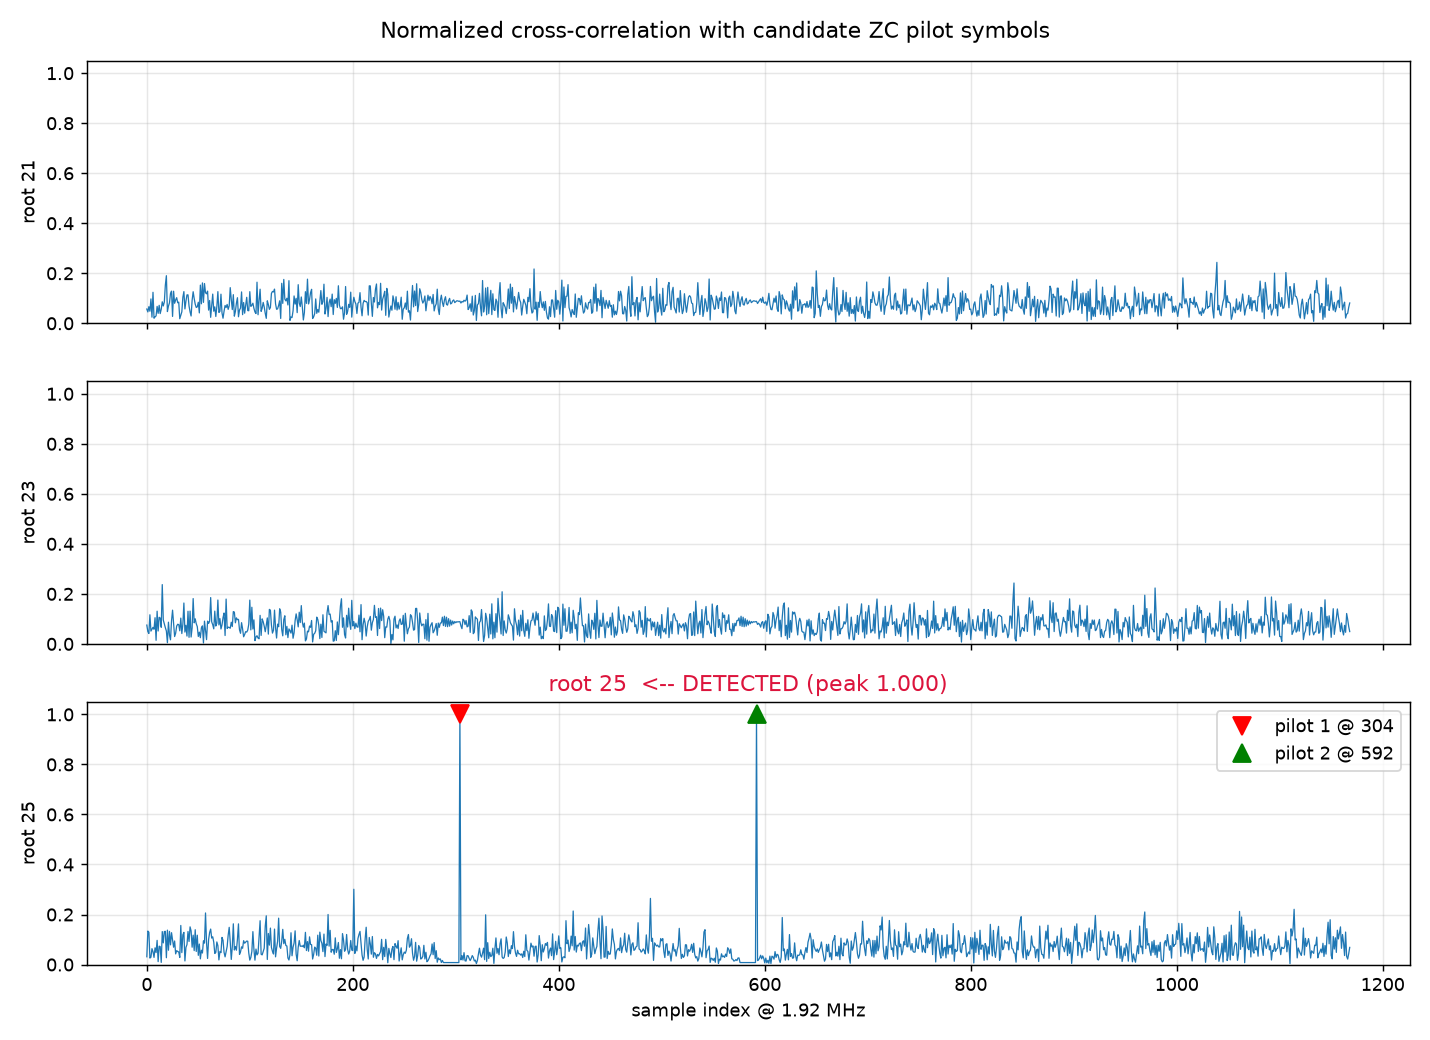
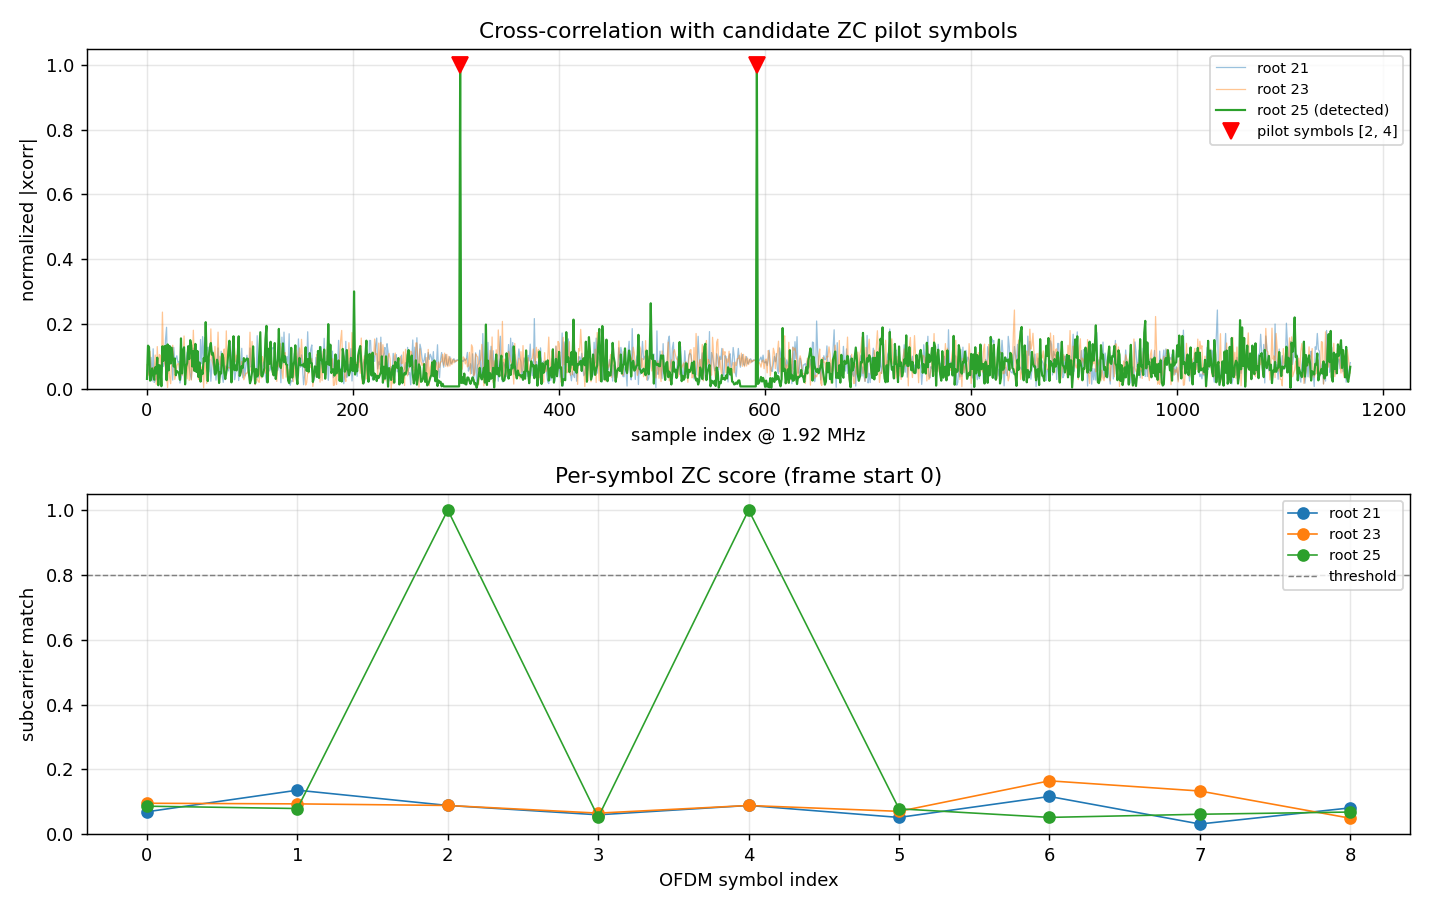
rs proceed

diff --git a/zc_rs.py b/zc_rs.py
@@ -22,6 +22,8 @@ def zc_sequence(root, n=ZC_LEN):
     m = np.arange(n)
     return np.exp(-1j * np.pi * root * m * (m + 1) / n)
 
+def extract_non_dc(X_shifted: np.ndarray) -> np.ndarray:
+    return np.concatenate([X_shifted[:DC_BIN], X_shifted[DC_BIN + 1 :]])
 
 def pilot_time_symbol(root):
     """
@@ -43,109 +45,122 @@ def pilot_time_symbol(root):
 def normalized_xcorr(x, ref):
     """|cross-correlation| normalized by local signal energy -> [0, 1]."""
     L = len(ref)
+    #   Calculate cross-correlation
     num = np.abs(signal.correlate(x, ref, mode="valid"))
+    #   Calculate energy 
     energy = signal.correlate(np.abs(x) ** 2, np.ones(L), mode="valid").real
+    # Calculate normalization to make correlation maximum equal to 1
     den = np.sqrt(np.maximum(energy, 1e-12) * np.sum(np.abs(ref) ** 2))
     return num / den
 
-def search_zc(x_bb):
-    results = {}
-    for root in PILOT_ROOTS:
-        best = None
-        
-        ref = pilot_time_symbol(root)
-        c = normalized_xcorr(x_bb, ref)
-        k = int(np.argmax(c))
-        if best is None or c[k] > best["peak"]:
-            best = {"corr": c, "idx": k, "peak": float(c[k])}
-            
-        results[root] = best
-    return results
+def search_zc(rx: np.ndarray):
+    """Correlate against the OFDM pilot replica of every candidate root.
 
-def estimate_signal_onset(x, win=CP_LEN):
-    """First sample where moving-average power rises well above the noise
-    floor (noise floor taken from the quietest 10% of windows)."""
-    p = np.convolve(np.abs(x) ** 2, np.ones(win) / win, mode="valid")
-    floor = np.percentile(p, 10)
-    thr = max(10 * floor, 0.05 * p.max())
-    idx = np.flatnonzero(p > thr)
-    return int(idx[0]) if idx.size else 0
+    Returns the per-root correlation magnitudes plus the root and sample index
+    of the strongest peak.
+    """
+    corrs = {root: normalized_xcorr(rx, pilot_time_symbol(root))
+             for root in PILOT_ROOTS}
+    best_root = max(corrs, key=lambda r: corrs[r].max())
+    best_start = int(np.argmax(corrs[best_root]))
+    return corrs, best_root, best_start
 
-def interpret(results, x_bb):
-    best_root = max(results, key=lambda r: results[r]["peak"])
-    r = results[best_root]
-    c = r["corr"]
+def per_symbol_zc_scores(rx: np.ndarray, timing: int = 0) -> np.ndarray:
+    """
+    For each of 9 OFDM symbols, correlate the 127 used subcarriers with each root.
+    Returns array shape (N_SYM, n_roots).
+    """
+    scores = np.zeros((N_SYM, len(PILOT_ROOTS)))
+    for s in range(N_SYM):
+        start = timing + s * SYM_LEN + CP_LEN
+        useful = rx[start : start + N_FFT]
+        if useful.size < N_FFT:
+            continue
+        X = np.fft.fftshift(np.fft.fft(useful, n=N_FFT))
+        sc = extract_non_dc(X)
+        sc_n = np.linalg.norm(sc)
+        for i, root in enumerate(PILOT_ROOTS):
+            zc = zc_sequence(root)
+            scores[s, i] = np.abs(np.vdot(zc, sc)) / (np.linalg.norm(zc) * sc_n + 1e-12)
+    return scores
 
-    # First pilot peak, then look for the partner exactly 2 symbols away
-    p1 = r["idx"]
-    lo, hi = p1 + 2 * SYM_LEN - 2, p1 + 2 * SYM_LEN + 3
-    p2 = None
-    if hi < len(c):
-        w = c[lo:hi]
-        if w.max() > 0.5 * r["peak"]:
-            p2 = lo + int(np.argmax(w))
-
-    # The correlation peaks at the FFT-part start of pilot symbol n, i.e.
-    # frame_start + n*SYM_LEN + CP. A single pilot leaves n ambiguous, so
-    # anchor the frame start with an energy-onset estimate, snap it to the
-    # nearest consistent symbol grid position, and read n off the grid.
-    onset = estimate_signal_onset(x_bb)
-    n_pilot = int(np.clip(round((p1 - CP_LEN - onset) / SYM_LEN),
-                          0, N_SYM - 3))       # n+2 must be <= last symbol
-    frame_start = p1 - CP_LEN - n_pilot * SYM_LEN
-
-    return {
-        "root": best_root,
-        "peak_val": r["peak"],
-        "pilot1_pos": p1,
-        "pilot2_pos": p2,
-        "pilot_symbols": (n_pilot, n_pilot + 2),
-        "frame_start": frame_start
-    }
+def find_pilot_symbol_indices(scores: np.ndarray,
+                              thresh: float = 0.8) -> tuple[list[int], int]:
+    best_root_col = int(np.argmax(scores.max(axis=0)))
+    hits = np.where(scores[:, best_root_col] > thresh)[0].tolist()
+    return hits, best_root_col
 
 
-raw = np.fromfile(path, dtype=np.int16)
+def load_baseband(filename: str) -> np.ndarray:
+    """
+    Read the bin file, format Q15 - 15 bits fixed-point numbers interleaved
+    real and image, one bit for sign. Maximal number for 15 bits is 32768.
 
-iq = raw.astype(np.float64) / 32768.0  # Q15: [-1, +1)
-iq_comp = iq[0::2] + 1j * iq[1::2]
+    The task description says the signal is oversampled by 4 and has to be
+    downsampled, but the sample count (16 + 128) * 9 = 1296 and the spectrum
+    (fully occupied, not a quarter) say otherwise, so decimate only when the
+    energy really is confined to the central quarter.
+    """
+    iq = np.fromfile(filename, dtype=np.int16).astype(np.float64) / 32768.0
+    rx = iq[0::2] + 1j * iq[1::2]
 
-X = np.fft.fftshift(np.fft.fft(iq_comp * np.hanning(len(iq_comp))))
-P = np.abs(X) ** 2
-frac_center = P[3*len(P)//8:5*len(P)//8].sum() / P.sum()
-if frac_center > 0.8:
-    cutoff = 0.9 * (FS_CAPTURE / DECIM) / 2.0  # 0.9 * 960 kHz
-    taps = signal.firwin(numtaps=65, cutoff=cutoff, fs=FS_CAPTURE)
-    sig_filt = signal.lfilter(taps, 1.0, iq_comp)[::DECIM]
-else:
-    sig_filt = iq_comp
+    P = np.abs(np.fft.fftshift(np.fft.fft(rx * np.hanning(len(rx))))) ** 2
+    if P[3 * len(P) // 8 : 5 * len(P) // 8].sum() / P.sum() > 0.8:
+        cutoff = 0.9 * (FS_CAPTURE / DECIM) / 2.0  # 0.9 * 960 kHz
+        taps = signal.firwin(numtaps=65, cutoff=cutoff, fs=FS_CAPTURE)
+        rx = signal.lfilter(taps, 1.0, rx)[::DECIM]
+    return rx
 
 
+def plot_detection(corrs, scores, detected_root, pilot_syms, frame_start):
+    """Correlation traces (top) and per-symbol root scores (bottom)."""
+    fig, (ax_c, ax_s) = plt.subplots(2, 1, figsize=(11, 7))
 
-results = search_zc(sig_filt)
+    for root, mag in corrs.items():
+        hit = root == detected_root
+        ax_c.plot(mag, lw=1.2 if hit else 0.7, alpha=1.0 if hit else 0.45,
+                  label=f"root {root}{' (detected)' if hit else ''}")
+    mag = corrs[detected_root]
+    peaks = [frame_start + s * SYM_LEN + CP_LEN for s in pilot_syms]
+    peaks = [p for p in peaks if 0 <= p < len(mag)]
+    if peaks:
+        ax_c.plot(peaks, mag[peaks], "rv", ms=9,
+                  label=f"pilot symbols {pilot_syms}")
+    ax_c.set(xlabel=f"sample index @ {FS_NATIVE / 1e6:g} MHz",
+             ylabel="normalized |xcorr|", ylim=(0, 1.05),
+             title="Cross-correlation with candidate ZC pilot symbols")
 
-det = interpret(results, sig_filt)
+    for i, root in enumerate(PILOT_ROOTS):
+        ax_s.plot(scores[:, i], "o-", lw=0.9, label=f"root {root}")
+    ax_s.axhline(0.8, color="grey", ls="--", lw=0.8, label="threshold")
+    ax_s.set(xlabel="OFDM symbol index", ylabel="subcarrier match",
+             ylim=(0, 1.05), title=f"Per-symbol ZC score (frame start "
+                                   f"{frame_start})")
 
-# Plots
-fig, axes = plt.subplots(len(PILOT_ROOTS), 1, figsize=(11, 8), sharex=True)
-for ax, root in zip(axes, PILOT_ROOTS):
-    c = results[root]["corr"]
-    ax.plot(c, lw=0.7)
-    ax.set_ylabel(f"root {root}")
-    ax.set_ylim(0, 1.05)
-    ax.grid(alpha=0.3)
-    if root == det["root"]:
-        ax.plot(det["pilot1_pos"], c[det["pilot1_pos"]], "rv", ms=10,
-                label=f"pilot 1 @ {det['pilot1_pos']}")
-        if det["pilot2_pos"] is not None:
-            ax.plot(det["pilot2_pos"], c[det["pilot2_pos"]], "g^", ms=10,
-                    label=f"pilot 2 @ {det['pilot2_pos']}")
-        ax.legend(loc="upper right")
-        ax.set_title(f"root {root}  <-- DETECTED "
-                        f"(peak {det['peak_val']:.3f})", color="crimson")
-axes[-1].set_xlabel("sample index @ 1.92 MHz")
-fig.suptitle("Normalized cross-correlation with candidate ZC pilot symbols")
-fig.tight_layout()
-fig.savefig("zc_correlation.png", dpi=130)
+    for ax in (ax_c, ax_s):
+        ax.grid(alpha=0.3)
+        ax.legend(loc="upper right", fontsize=8)
+    fig.tight_layout()
+    fig.savefig("zc_correlation.png", dpi=130)
+
+
+rx_bb = load_baseband(path)
+
+#   let's form Zadoff-Chu sequences and calculate correaltion for all symbols and all roots
+corrs, best_root, best_start = search_zc(rx_bb)
+
+# The peak sits at the start of the useful part, so back off the CP to get the
+# frame start; the frame is not necessarily aligned at sample 0.
+frame_start = (best_start - CP_LEN) % SYM_LEN
+scores = per_symbol_zc_scores(rx_bb, timing=frame_start)
+pilot_syms, root_col = find_pilot_symbol_indices(scores)
+detected_root = PILOT_ROOTS[root_col]
+
+print(f"matched-filter root {best_root}, peak at sample {best_start}")
+print(f"frame start {frame_start}, root {detected_root}, "
+      f"pilot symbols {pilot_syms}")
+
+plot_detection(corrs, scores, detected_root, pilot_syms, frame_start)
 
 
 

diff --git a/zc_test.py b/zc_test.py
@@ -23,7 +23,7 @@ from scipy import signal
 # ---------------------------------------------------------------------------
 # Parameters
 # ---------------------------------------------------------------------------
-BIN_PATH = Path(__file__).resolve().parent / "q15_ofdm_waveform.bin"
+path = './q15_ofdm_waveform.bin'
 
 N_FFT = 128
 CP_LEN = 16
@@ -41,11 +41,11 @@ DC_BIN = N_FFT // 2  # bin 64 in a 128-point fftshifted grid (MATLAB index 65)
 # ---------------------------------------------------------------------------
 # Q1 — Read Q15 interleaved IQ and convert to complex float in [-1, +1)
 # ---------------------------------------------------------------------------
-def read_q15_iq(path: Path) -> np.ndarray:
+def read_q15_iq(filename: Path) -> np.ndarray:
     """Read interleaved int16 I/Q and scale by 2^-15."""
-    raw = np.fromfile(path, dtype=np.int16)
+    raw = np.fromfile(filename, dtype=np.int16)
     if raw.size % 2:
-        raise ValueError(f"{path} has an odd number of int16 values")
+        raise ValueError(f"{filename} has an odd number of int16 values")
     iq = raw.astype(np.float64) / 32768.0  # Q15: [-1, +1)
     return iq[0::2] + 1j * iq[1::2]
 
@@ -53,11 +53,11 @@ def read_q15_iq(path: Path) -> np.ndarray:
 # ---------------------------------------------------------------------------
 # Q2 — Anti-alias and downsample 7.68 MHz -> 1.92 MHz
 # ---------------------------------------------------------------------------
-def downsample_4x(x: np.ndarray, fs_hi: float = FS_CAPTURE) -> np.ndarray:
+def downsample_4x(rx: np.ndarray, fs_hi: float = FS_CAPTURE) -> np.ndarray:
     """FIR low-pass (cutoff just below the 1.92 MHz Nyquist) then keep every 4th sample."""
     cutoff = 0.9 * (fs_hi / DECIM) / 2.0  # 0.9 * 960 kHz
     taps = signal.firwin(numtaps=65, cutoff=cutoff, fs=fs_hi)
-    return signal.lfilter(taps, 1.0, x)[::DECIM]
+    return signal.lfilter(taps, 1.0, rx)[::DECIM]
 
 
 # ---------------------------------------------------------------------------
@@ -234,87 +234,36 @@ def plot_q3(corrs: dict, best: dict, scores: np.ndarray, pilot_syms: list[int]) 
     fig.savefig(Path(__file__).parent / "q3_zc_correlation.png", dpi=120)
 
 
-# ---------------------------------------------------------------------------
-# Main
-# ---------------------------------------------------------------------------
-def main() -> None:
-    # Q1
-    x = read_q15_iq(BIN_PATH)
-    print("=" * 64)
-    print("Q1  Read and convert Q15 IQ")
-    print("=" * 64)
-    print(f"  file          : {BIN_PATH.name}")
-    print(f"  complex samples: {len(x)}")
-    print(f"  I range       : [{x.real.min():+.6f}, {x.real.max():+.6f}]")
-    print(f"  Q range       : [{x.imag.min():+.6f}, {x.imag.max():+.6f}]")
-    print(f"  |z| max       : {np.abs(x).max():.6f}  (must be < 1)")
-    print("  scaling       : int16 / 32768  →  [-1, +1)")
-
-    # Q2
-    x_ds = downsample_4x(x)
-    print()
-    print("=" * 64)
-    print("Q2  Downsample 7.68 MHz → 1.92 MHz")
-    print("=" * 64)
-    print(f"  FIR cutoff    : {0.9 * (FS_CAPTURE / DECIM) / 2 / 1e3:.1f} kHz, decimate by {DECIM}")
-    print(f"  length after  : {len(x_ds)} samples")
-    print(f"  9 symbols @ 1.92 MHz would be {N_SYM * SYM_LEN} samples")
-    if len(x) == N_SYM * SYM_LEN:
-        print("  NOTE: the file is already 1296 samples = 9 × (128+16),")
-        print("        i.e. native 1.92 MHz. ZC search uses this signal,")
-        print("        not the extra ×4 decimation (that would leave 324 samples).")
-        rx = x
-        fs = FS_NATIVE
-    else:
-        rx = x_ds
-        fs = FS_NATIVE
-
-    # Q3
-    corrs, best = search_zc(rx)
-    scores = per_symbol_zc_scores(rx, timing=0)
-    pilot_syms, root_col = find_pilot_symbol_indices(scores)
-    detected_root = PILOT_ROOTS[root_col]
-
-    # If the frame is not aligned at sample 0, infer timing from the matched-filter peak
-    frame_start = best["start"] % SYM_LEN
-    scores_aligned = per_symbol_zc_scores(rx, timing=frame_start)
-    pilot_syms_aligned, _ = find_pilot_symbol_indices(scores_aligned)
-
-    print()
-    print("=" * 64)
-    print("Q3  Zadoff-Chu search")
-    print("=" * 64)
-    print("  3.2 most likely root index :", best["root"])
-    print("  3.2 starting position      : sample", best["start"],
-          f"({best['start'] / fs * 1e6:.3f} µs at {fs/1e6:.2f} MHz)")
-    print(f"       (start of CP of the first pilot OFDM symbol; "
-          f"useful IFFT starts at {best['start'] + CP_LEN})")
-    print("  3.2 peak correlation       :", f"{best['peak']:.6f}")
-    print()
-    print("  3.1 Zadoff-Chu OFDM symbols (0-based):", pilot_syms_aligned)
-    if len(pilot_syms_aligned) >= 2:
-        n = pilot_syms_aligned[0]
-        print(f"       n = {n}, n+2 = {n + 2}  "
-              f"(MATLAB 1-based: symbols {n + 1} and {n + 3})")
-    print()
-    print("  Per-symbol freq-domain scores (timing = "
-          f"{frame_start}):")
-    hdr = "    sym | " + "  ".join(f"root {r:>2d}" for r in PILOT_ROOTS)
-    print(hdr)
-    for s in range(N_SYM):
-        row = "    %3d |" % s
-        for i in range(len(PILOT_ROOTS)):
-            row += f"   {scores_aligned[s, i]:6.3f}"
-        if s in pilot_syms_aligned:
-            row += "   <-- ZC pilot"
-        print(row)
-
-    plot_q1_q2(x, x_ds)
-    plot_q3(corrs, best, scores_aligned, pilot_syms_aligned)
-    print()
-    print("Saved q1_q2_iq_downsample.png and q3_zc_correlation.png")
-    plt.show()
 
 
-if __name__ == "__main__":
-    main()
+#   read the bin file, format Q15 - 15 bits fixed-point numbers interleaved real and image
+#   one bit for sign, normalized by 2 ** 15 = 32768
+x_hi = read_q15_iq(Path(path))
+
+# Q2
+x_ds = downsample_4x(x_hi)
+
+#   the matter is that in task description it is said that signal oversampled by 4 and we need to downsample
+# it. But by the number of samples (16 + 128) * 9 = 1 296. Also if we measure spectrum there is not 1 / 4 
+#   of spectrum occupied but full spectrum. Also trying to find anything in downsampled samples leads to
+#   nothing
+P = np.abs(np.fft.fftshift(np.fft.fft(x_hi * np.hanning(len(x_hi))))) ** 2
+frac_center = P[3*len(P)//8:5*len(P)//8].sum() / P.sum()
+sig_filt = x_ds if frac_center > 0.8 else x_hi
+
+# Q3
+corrs, best = search_zc(sig_filt)
+scores = per_symbol_zc_scores(sig_filt, timing=0)
+pilot_syms, root_col = find_pilot_symbol_indices(scores)
+detected_root = PILOT_ROOTS[root_col]
+
+# If the frame is not aligned at sample 0, infer timing from the matched-filter peak
+frame_start = best["start"] % SYM_LEN
+scores_aligned = per_symbol_zc_scores(sig_filt, timing=frame_start)
+pilot_syms_aligned, _ = find_pilot_symbol_indices(scores_aligned)
+
+plot_q1_q2(x_hi, x_ds)
+plot_q3(corrs, best, scores_aligned, pilot_syms_aligned)
+plt.show()
+
+
